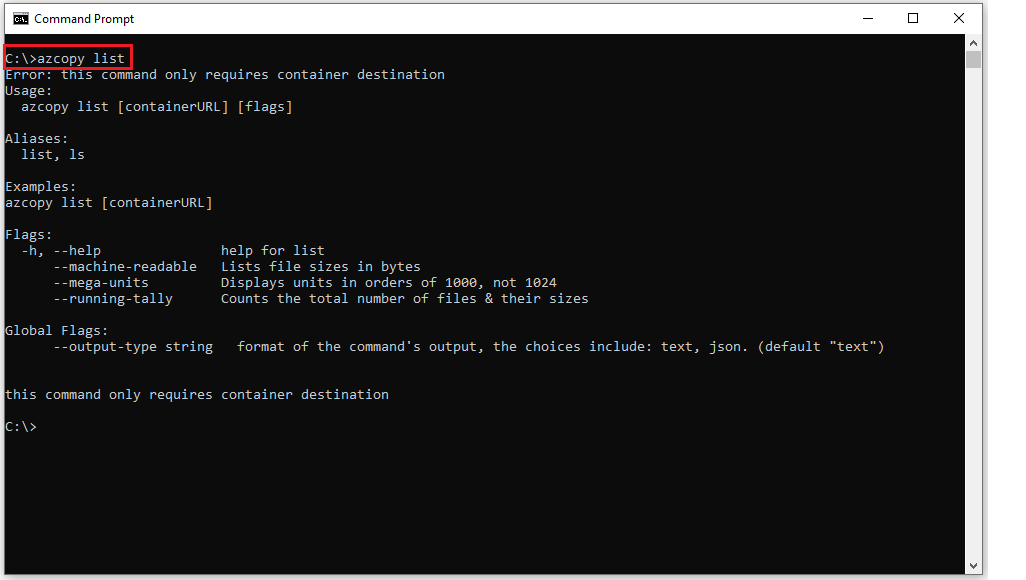
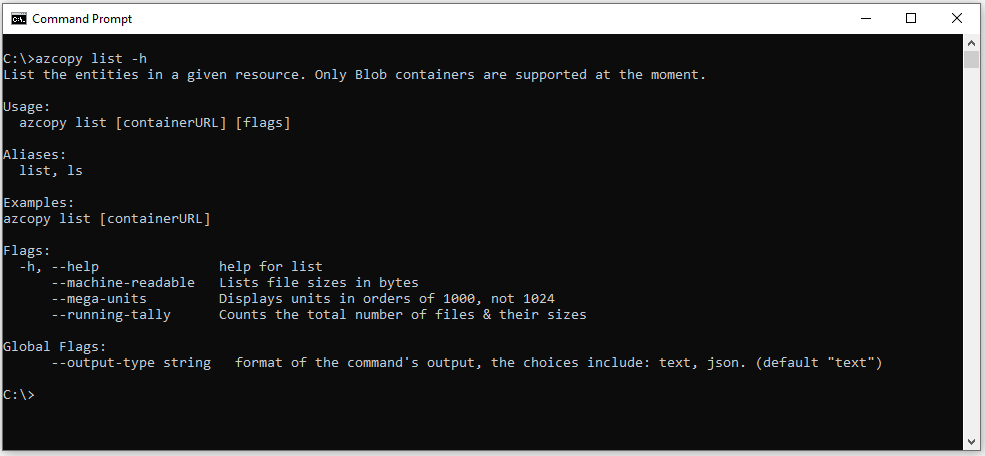
addressing some tech review feedback

diff --git a/README.md b/README.md
@@ -30,21 +30,21 @@ For complete guidance, visit any of these articles on the docs.microsoft.com web
 
 :eight_spoked_asterisk: [Get started with AzCopy](https://docs.microsoft.com/azure/storage/common/storage-use-azcopy-v10)
 
-:eight_spoked_asterisk: [Transfer data with AzCopy and blob storage](storage-use-azcopy-blobs.md)
+:eight_spoked_asterisk: [Transfer data with AzCopy and blob storage](https://docs.microsoft.com/azure/storage/common/storage-use-azcopy-blobs)
 
-:eight_spoked_asterisk: [Transfer data with AzCopy and file storage](storage-use-azcopy-files.md)
+:eight_spoked_asterisk: [Transfer data with AzCopy and file storage](https://docs.microsoft.com/azure/storage/common/storage-use-azcopy-files)
 
-:eight_spoked_asterisk: [Transfer data with AzCopy and Amazon S3 buckets](storage-use-azcopy-s3.md)
+:eight_spoked_asterisk: [Transfer data with AzCopy and Amazon S3 buckets](https://docs.microsoft.com/azure/storage/common/storage-use-azcopy-s3)
 
-:eight_spoked_asterisk: [Configure, optimize, and troubleshoot AzCopy](storage-use-azcopy-configure.md)
+:eight_spoked_asterisk: [Configure, optimize, and troubleshoot AzCopy](https://docs.microsoft.com/azure/storage/common/storage-use-azcopy-configure)
 
 ### Find help from your command prompt
 
 Be sure to add AzCopy to your system path. Then, open a command prompt window.
 
-To see a list of commands, type `azcopy` and then press the ENTER key.
+To see a list of commands, type `azcopy -h` and then press the ENTER key.
 
-To learn about a specific command, type `azCopy` followed by the name of the command.
+To learn about a specific command, just include the name of the command (For example: `azcopy copy -h`).
 
 ![AzCopy command help example](readme-command-prompt.png)
 
@@ -52,7 +52,7 @@ To learn about a specific command, type `azCopy` followed by the name of the com
 
 ### What is the difference between `sync` and `copy`?
 
-The `copy` command is a simple transferring operation, it scans the source and attempts to transfer every single file/blob. The supported source/destination pairs are listed in the help message of the tool. On the other hand, `sync` makes sure that whatever is present in the source will be replicated to the destination, and also whatever is not at the source will be deleted from the destination. If your goal is to simply move some files, then `copy` is definitely the right command, since it offers much better performance.
+The `copy` command is a simple transferring operation, it scans the source and attempts to transfer every single file/blob. The supported source/destination pairs are listed in the help message of the tool. On the other hand, `sync` makes sure that whatever is present in the source will be replicated to the destination. If your goal is to simply move some files, then `copy` is definitely the right command, since it offers much better performance.
 
 For `sync`, last modified times are used to determine whether to transfer the same file present at both the source and the destination. If the use case is to incrementally transfer data
 then `sync` is the better choice, since only the modified/missing files are transferred.
